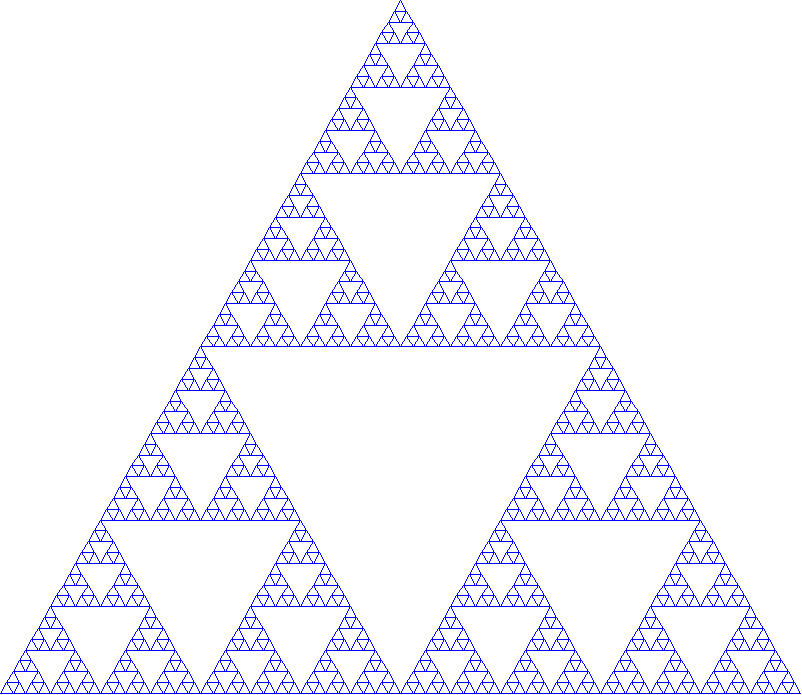
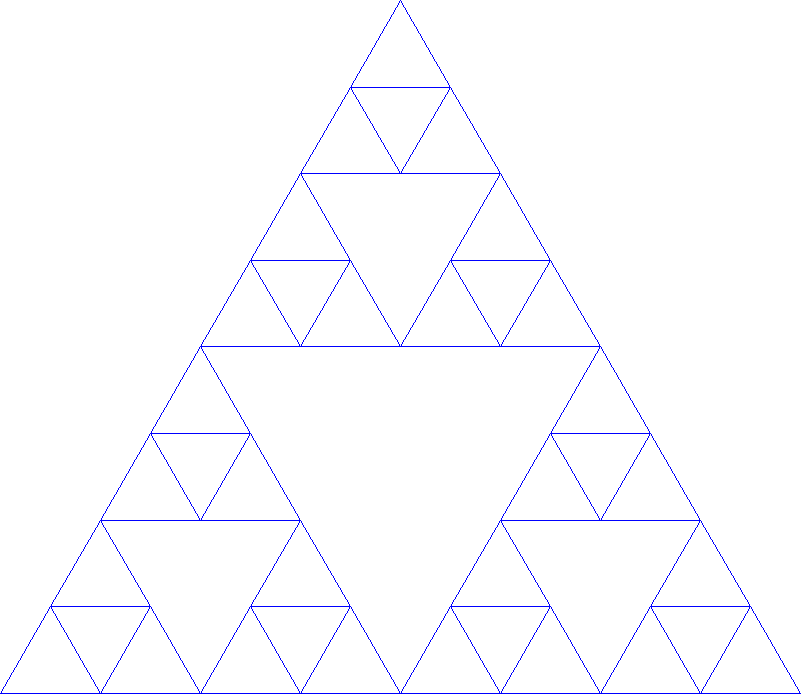
recursive step

diff --git a/src/main/java/unam/ciencias/icc/GeometricImageGenerator.java b/src/main/java/unam/ciencias/icc/GeometricImageGenerator.java
@@ -1,0 +1,91 @@
+package unam.ciencias.icc;
+
+import java.awt.Color;
+import java.awt.Graphics;
+import java.awt.image.BufferedImage;
+import java.util.List;
+import java.util.stream.Collectors;
+
+import static java.lang.Math.round;
+import static java.lang.Math.ceil;
+import static java.lang.Math.abs;
+
+public class GeometricImageGenerator<T extends Shape>
+    implements ImageGenerator<T> {
+  private Color backgroundColor;
+  private Color lineColor;
+  private ShapeRenderer<T> renderer;
+
+
+  public GeometricImageGenerator(ShapeRenderer<T> renderer) {
+    this.backgroundColor = Color.WHITE;
+    this.lineColor = Color.BLUE;
+    this.renderer = renderer;
+  }
+
+  @Override
+  public BufferedImage paint(List<T> shapes) {
+    var allVertices = collectVertices(shapes);
+    var upperLeftCorner = calculateUpperLeftCorner(allVertices);
+    var lowerRightCorner = calculateLowerRightCorner(allVertices);
+    var bufferedImage = getCanvas(upperLeftCorner, lowerRightCorner);
+    var graphics = getGraphics(bufferedImage);
+    shapes.forEach(s -> renderer.render(s, upperLeftCorner, graphics));
+    return bufferedImage;
+  }
+
+  @Override
+  public BufferedImage paint(T shape) {
+    var upperLeftCorner = calculateUpperLeftCorner(shape.getVertices());
+    var lowerRightCorner = calculateLowerRightCorner(shape.getVertices());
+    var bufferedImage = getCanvas(upperLeftCorner, lowerRightCorner);
+    var graphics = getGraphics(bufferedImage);
+    renderer.render(shape, upperLeftCorner, graphics);
+    return bufferedImage;
+  }
+
+  private List<Point> collectVertices(List<T> shapes) {
+    return shapes.stream()
+        .map(s -> s.getVertices())
+        .flatMap(vs -> vs.stream())
+        .collect(Collectors.toList());
+  }
+
+  private Point calculateUpperLeftCorner(List<Point> vertices) {
+    float minX = vertices.stream()
+                         .min((v0, v1) -> Float.compare(v0.x(), v1.x()))
+                         .map(v -> v.x())
+                         .orElseThrow(),
+          minY = vertices.stream()
+                         .min((v0, v1) -> Float.compare(v0.y(), v1.y()))
+                         .map(v -> v.y())
+                         .orElseThrow();
+    return new Point(minX, minY);
+  }
+
+  private Point calculateLowerRightCorner(List<Point> vertices) {
+    float maxX = vertices.stream()
+                         .max((v0, v1) -> Float.compare(v0.x(), v1.x()))
+                         .map(v -> v.x())
+                         .orElseThrow(),
+          maxY = vertices.stream()
+                         .max((v0, v1) -> Float.compare(v0.y(), v1.y()))
+                         .map(v -> v.y())
+                         .orElseThrow();
+    return new Point(maxX, maxY);
+  }
+
+  private BufferedImage getCanvas(Point upperLeftCorner, Point lowerRightCorner) {
+    int width = (int) round(ceil(abs(lowerRightCorner.x() - upperLeftCorner.x()))) + 2,
+        height = (int) round(ceil(abs(lowerRightCorner.y() - upperLeftCorner.y()))) + 2;
+
+    var image = new Image(width, height, this.backgroundColor);
+    return Image.buildBufferedImage(image);
+  }
+
+  private Graphics getGraphics(BufferedImage image) {
+    var graphics = image.getGraphics();
+    graphics.setColor(this.lineColor);
+    return graphics;
+  }
+}

diff --git a/src/test/java/unam/ciencias/icc/SierpinskiTriangleGeneratorTest.java b/src/test/java/unam/ciencias/icc/SierpinskiTriangleGeneratorTest.java
@@ -1,0 +1,36 @@
+package unam.ciencias.icc;
+
+import org.junit.jupiter.api.Test;
+
+import static org.hamcrest.MatcherAssert.assertThat;
+import static org.hamcrest.Matchers.is;
+
+import java.util.List;
+
+import static org.hamcrest.Matchers.equalTo;
+
+public class SierpinskiTriangleGeneratorTest {
+  @Test
+  public void test_Case() {
+    var triangleHeight =  400 * (float) Math.sqrt(3);
+    var triangle = new Polygon(new Point(0f, triangleHeight),
+                               new Point(800f, triangleHeight),
+                               new Point(400f, 0f));
+    var fractalGenerator = new SierpinskiTriangleGenerator();
+
+    var actualOutput = fractalGenerator.generate(List.of(triangle), 0);
+
+    var expectedOutput = new Polygon(new Point(0f, triangleHeight),
+                                     new Point(800f, triangleHeight),
+                                     new Point(400f, 0f));
+    assertPolygonsAreSimilar(null, null);
+  }
+
+  void assertPolygonsAreSimilar(Polygon a, Polygon b) {
+
+  }
+
+  void assertPointsAreClose(Point a, Point b) {
+
+  }
+}

diff --git a/src/main/java/unam/ciencias/icc/PolygonRenderer.java b/src/main/java/unam/ciencias/icc/PolygonRenderer.java
@@ -1,0 +1,28 @@
+package unam.ciencias.icc;
+
+import java.awt.Graphics;
+
+import static java.lang.Math.round;
+
+public class PolygonRenderer implements ShapeRenderer<Polygon> {
+
+  @Override
+  public void render(Polygon shape, Point upperLeftCorner, Graphics graphics) {
+    shape.getEdges()
+      .forEach(lineSegment -> {
+          int x1 = fitXInCanvas(lineSegment.beg(), upperLeftCorner),
+            y1 = fitYInCanvas(lineSegment.beg(), upperLeftCorner),
+            x2 = fitXInCanvas(lineSegment.end(), upperLeftCorner),
+            y2 = fitYInCanvas(lineSegment.end(), upperLeftCorner);
+          graphics.drawLine(x1, y1, x2, y2);
+        });
+  }
+
+  private int fitXInCanvas(Point point, Point upperLeftCorner) {
+    return round(point.x() - upperLeftCorner.x());
+  }
+
+  private int fitYInCanvas(Point point, Point upperLeftCorner) {
+    return round(point.y() - upperLeftCorner.y());
+  }
+}

diff --git a/src/main/java/unam/ciencias/icc/App.java b/src/main/java/unam/ciencias/icc/App.java
@@ -48,11 +48,12 @@ public class App {
 
     var fractalGenerator = new SierpinskiTriangleGenerator();
 
-    var fractal = fractalGenerator.generate(List.of(triangle), 6);
+    var fractal = fractalGenerator.generate(List.of(triangle), 3);
     System.out.println("Fractal structure generated");
 
-    var painter = new PolygonsImageGenerator();
-    var image = painter.paint(fractal);
+    var polygonRenderer = new PolygonRenderer();
+    var imageGenerator = new GeometricImageGenerator<>(polygonRenderer);
+    var image = imageGenerator.paint(fractal);
     System.out.println("Done generating the image");
 
     persistImageToResources("fractal_image_1.png", ImageFormat.PNG, image);

diff --git a/src/main/java/unam/ciencias/icc/SierpinskiTriangle.java b/src/main/java/unam/ciencias/icc/SierpinskiTriangle.java
@@ -1,0 +1,20 @@
+package unam.ciencias.icc;
+
+import java.util.List;
+import java.util.stream.Collectors;
+
+import lombok.Getter;
+
+@Getter
+public class SierpinskiTriangle implements Shape {
+
+  private List<Polygon> triangles;
+
+  @Override
+  public List<Point> getVertices() {
+    return this.triangles.stream()
+        .map(p -> p.getVertices())
+        .flatMap(v -> v.stream())
+        .collect(Collectors.toList());
+  }
+}

diff --git a/src/main/java/unam/ciencias/icc/SierpinskiTriangleGenerator.java b/src/main/java/unam/ciencias/icc/SierpinskiTriangleGenerator.java
@@ -3,7 +3,7 @@ package unam.ciencias.icc;
 import java.util.List;
 import java.util.stream.Collectors;
 
-public class SierpinskiTriangleGenerator implements FractalGenerator {
+public class SierpinskiTriangleGenerator implements FractalGenerator<Polygon> {
   @Override
   public List<Polygon> generate(List<Polygon> input, int depth) {
     if (depth <= 0) {

diff --git a/src/main/java/unam/ciencias/icc/ImageGenerator.java b/src/main/java/unam/ciencias/icc/ImageGenerator.java
@@ -1,6 +1,9 @@
 package unam.ciencias.icc;
 
 import java.awt.image.BufferedImage;
+import java.util.List;
 
-public interface  ImageGenerator<T> {
-  BufferedImage paint(T object);
+public interface ImageGenerator<T> {
+  BufferedImage paint(T shape);
+  BufferedImage paint(List<T> shape);
+}

diff --git a/src/main/java/unam/ciencias/icc/FractalGenerator.java b/src/main/java/unam/ciencias/icc/FractalGenerator.java
@@ -2,6 +2,6 @@ package unam.ciencias.icc;
 
 import java.util.List;
 
-public interface FractalGenerator {
-  List<Polygon> generate(List<Polygon> input, int depth);
+public interface FractalGenerator<T extends Shape> {
+  List<T> generate(List<T> input, int depth);
 }

diff --git a/src/main/java/unam/ciencias/icc/ShapeRenderer.java b/src/main/java/unam/ciencias/icc/ShapeRenderer.java
@@ -1,0 +1,7 @@
+package unam.ciencias.icc;
+
+import java.awt.Graphics;
+
+public interface ShapeRenderer<T extends Shape> {
+  void render(T shape, Point upperLeftCorner, Graphics graphics);
+}

diff --git a/src/main/java/unam/ciencias/icc/Polygon.java b/src/main/java/unam/ciencias/icc/Polygon.java
@@ -12,7 +12,7 @@ import lombok.ToString;
 @Getter
 @ToString
 @EqualsAndHashCode
-public class Polygon {
+public class Polygon implements Shape {
   private List<Point> vertices;
 
   /**

diff --git a/src/main/java/unam/ciencias/icc/Shape.java b/src/main/java/unam/ciencias/icc/Shape.java
@@ -1,0 +1,7 @@
+package unam.ciencias.icc;
+
+import java.util.List;
+
+public interface Shape {
+ List<Point> getVertices();
+}
